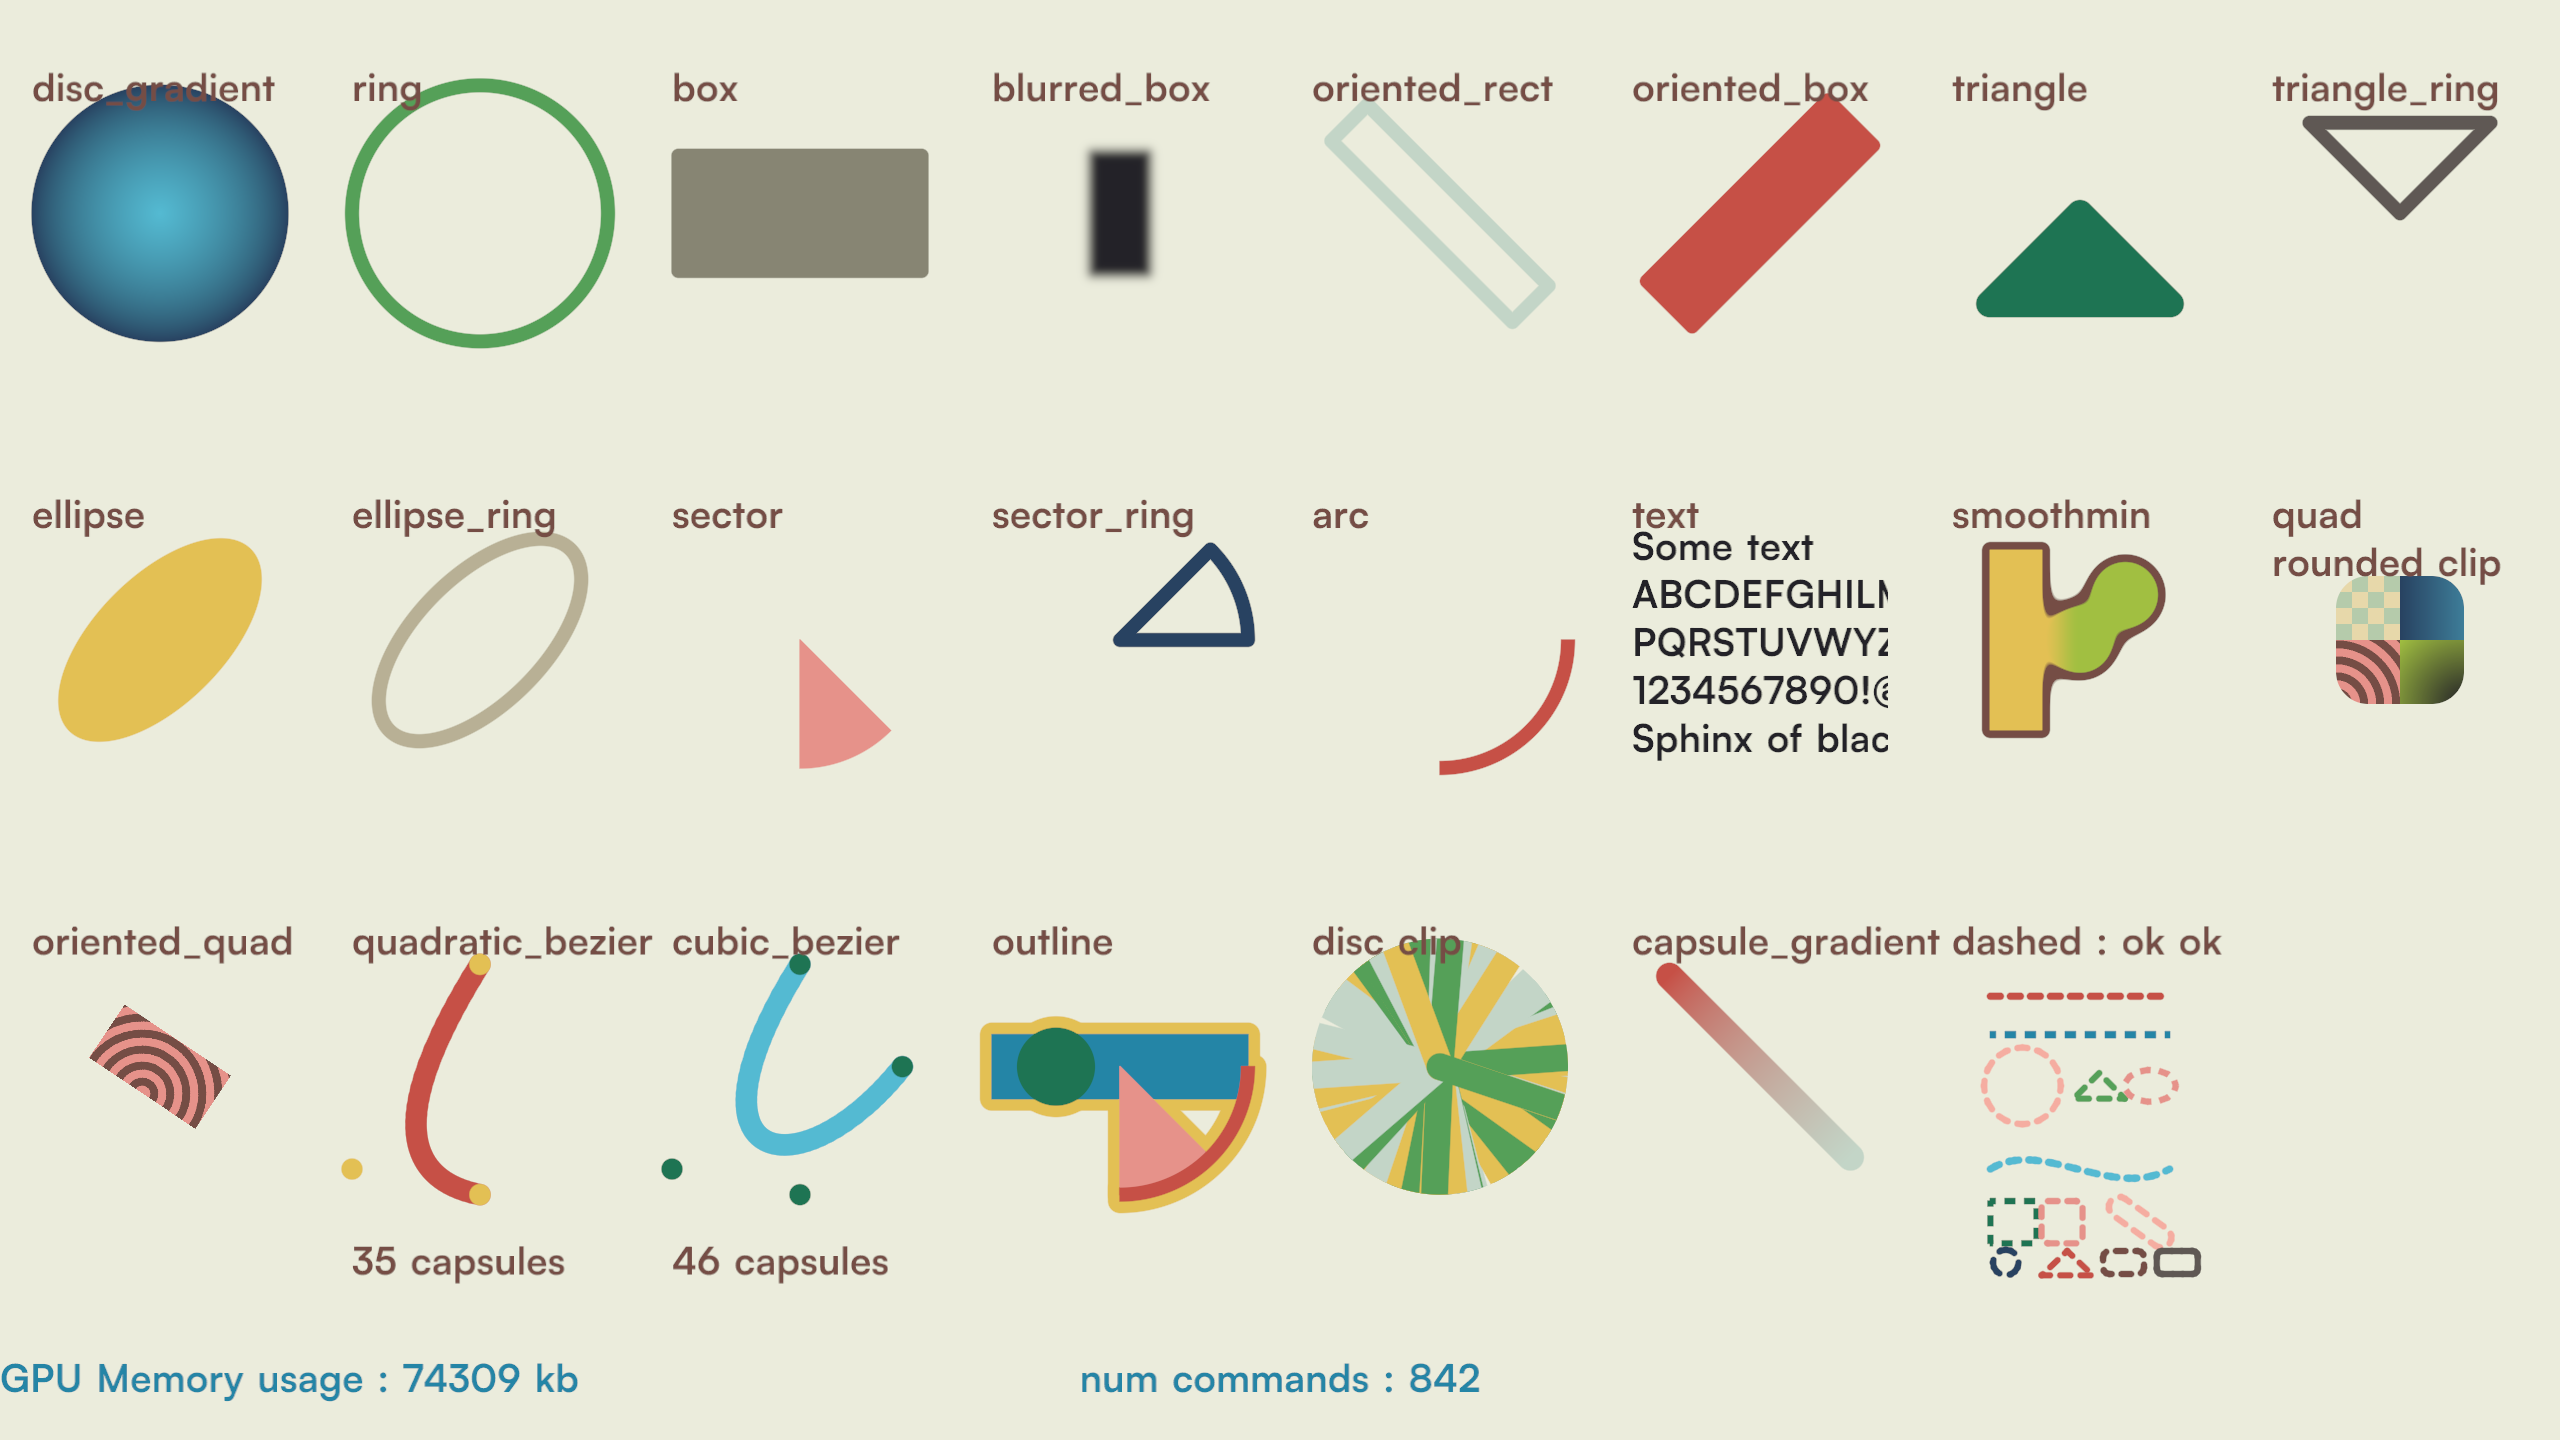
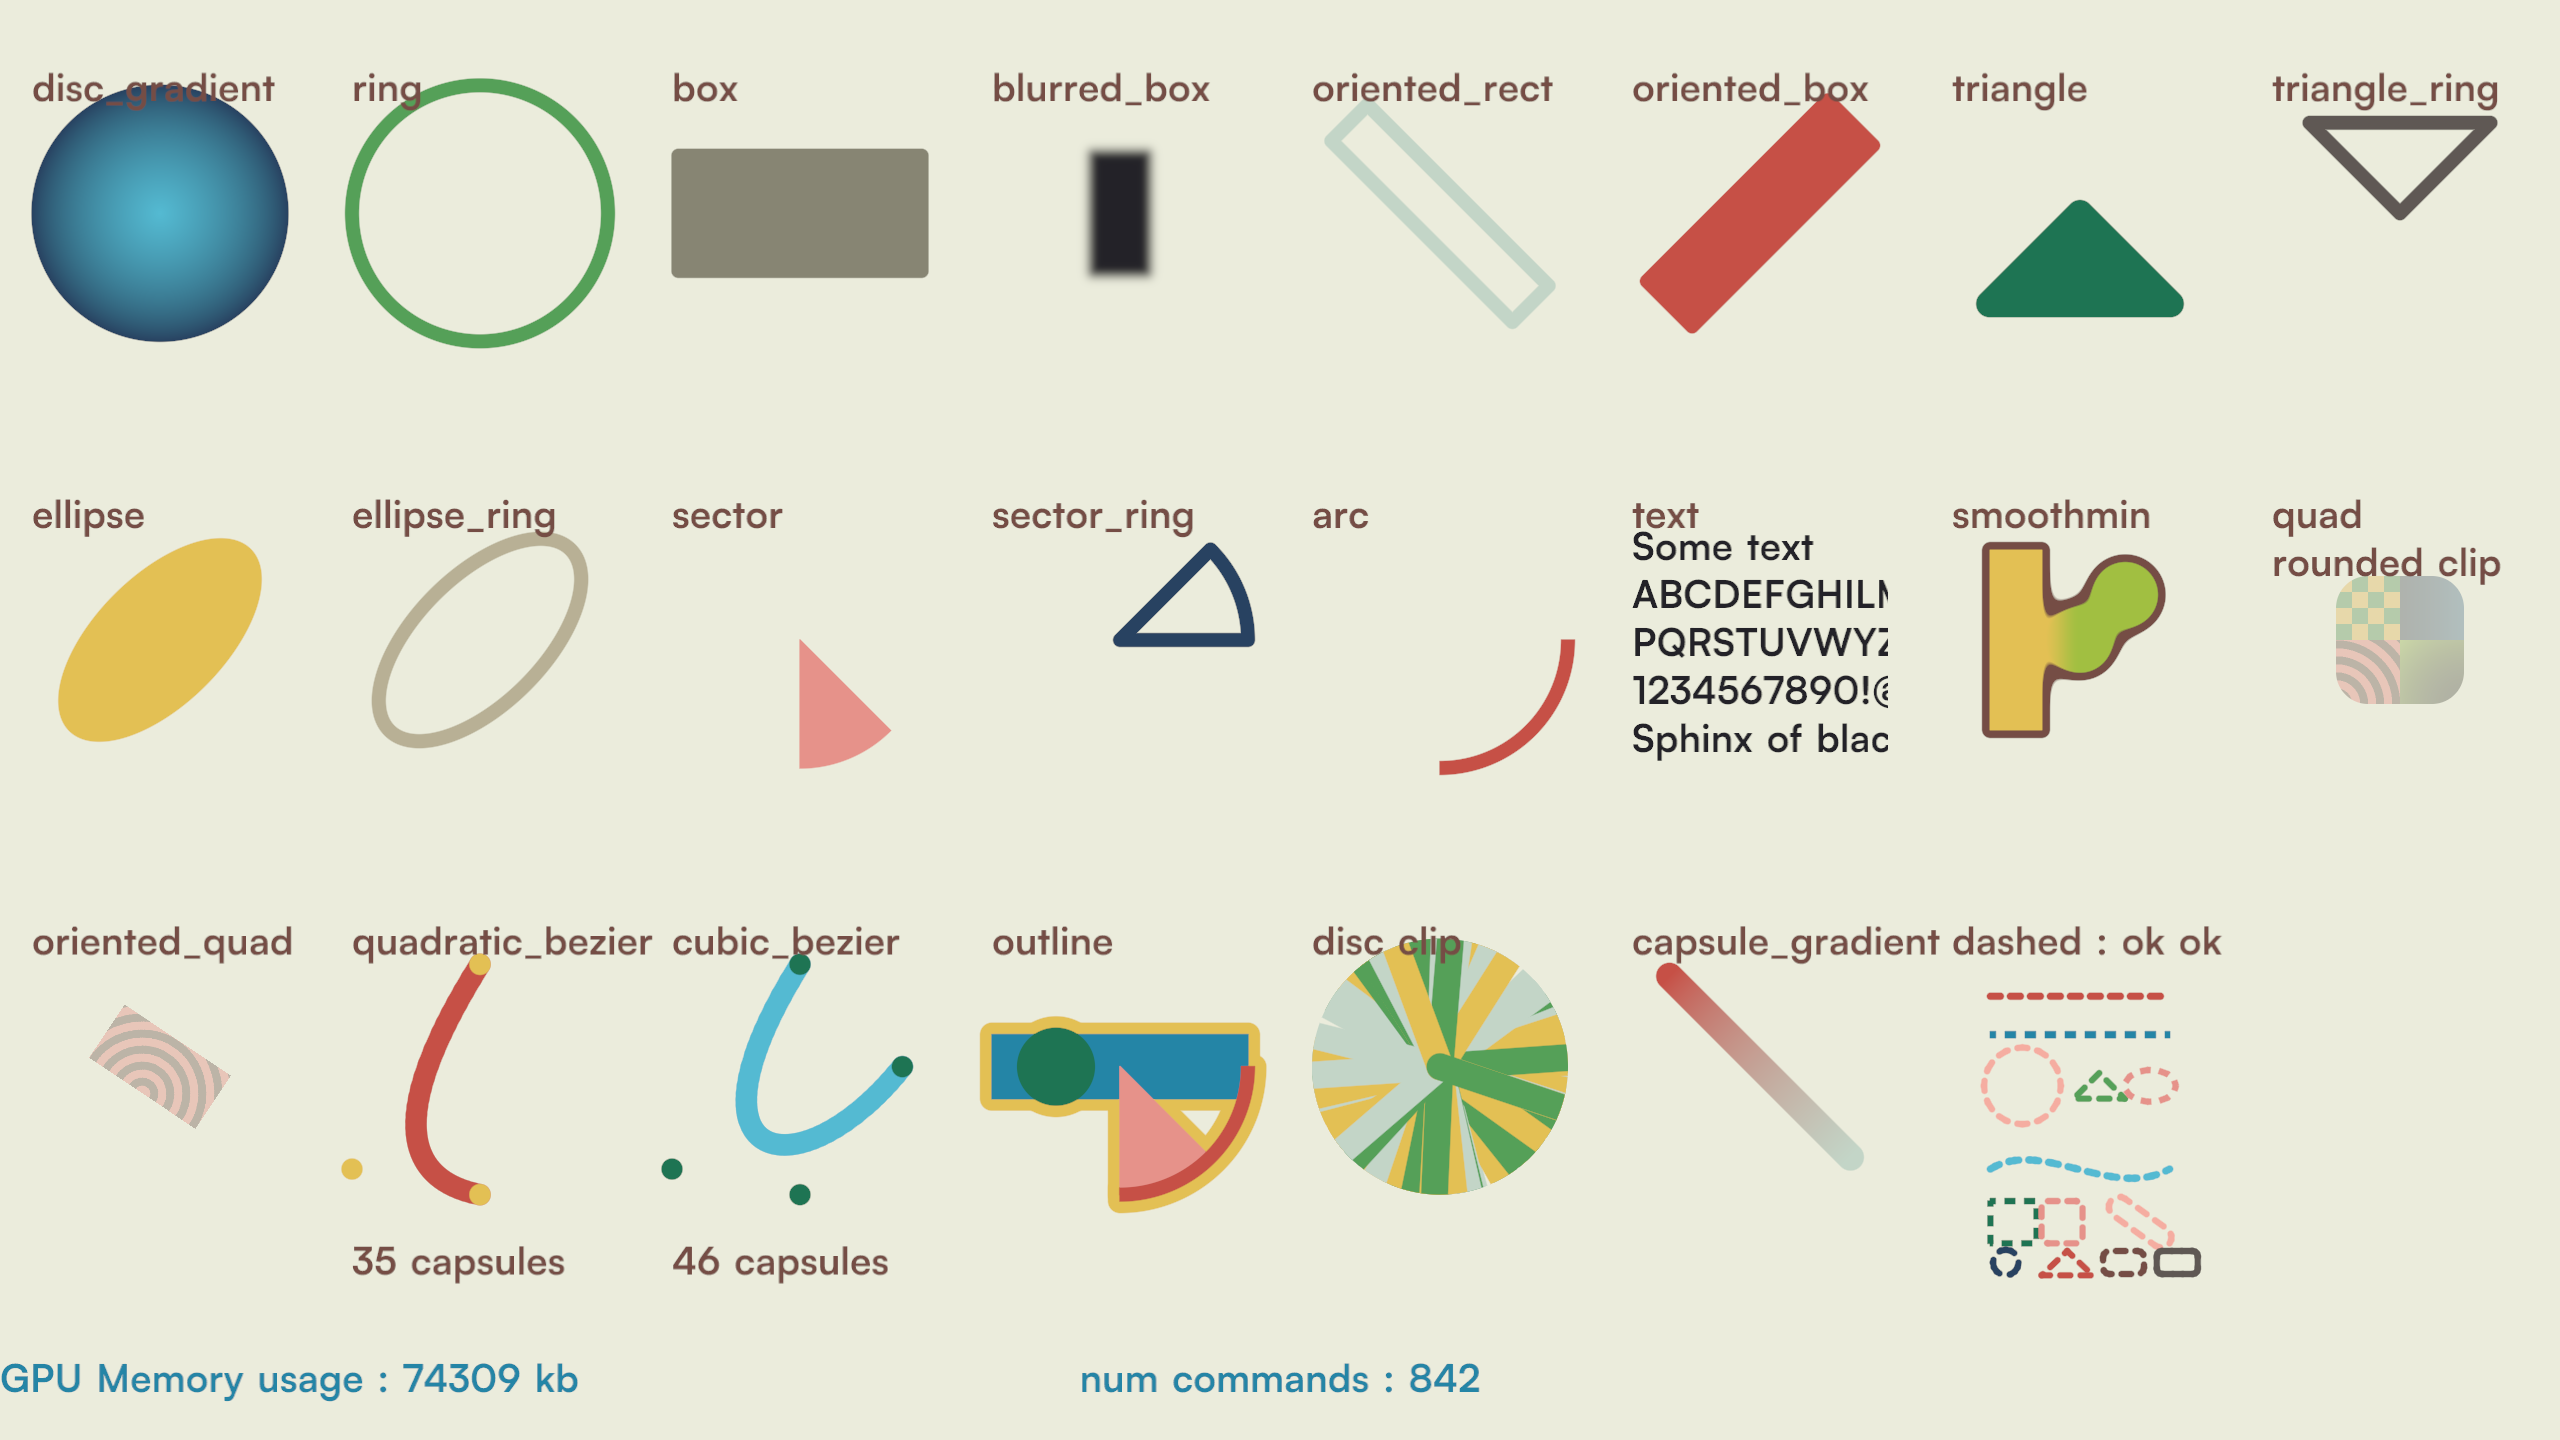
fixed alpha for the quad tests

Changed region(s): [[0.9062, 0.375, 0.9688, 0.5], [0.0312, 0.6875, 0.0938, 0.7812]]

diff --git a/tests/test.c b/tests/test.c
@@ -402,14 +402,14 @@ void frame(void)
     slot(15, &cx, &cy, &radius);
     od_set_cliprect_rounded(renderer, cx - radius*.5f, cy - radius*.5f, cx + radius*.5f, cy + radius*.5f, radius*.25f);
     od_draw_quad(renderer, cx-radius, cy-radius, cx, cy, (od_quad_uv){0.f, 0.f, 1.f, 1.f}, 0, 0x7fffffff);
-    od_draw_quad(renderer, cx, cy-radius, cx+radius, cy, (od_quad_uv){0.f, 0.f, 1.f, 1.f}, 1, 0xffffffff);
-    od_draw_quad(renderer, cx-radius, cy, cx, cy+radius, (od_quad_uv){0.f, 0.f, 1.f, 1.f}, 2, 0xffffffff);
-    od_draw_quad(renderer, cx, cy, cx+radius, cy+radius, (od_quad_uv){0.f, 0.f, 1.f, 1.f}, 3, 0xffffffff);
+    od_draw_quad(renderer, cx, cy-radius, cx+radius, cy, (od_quad_uv){0.f, 0.f, 1.f, 1.f}, 1, 0x7fffffff);
+    od_draw_quad(renderer, cx-radius, cy, cx, cy+radius, (od_quad_uv){0.f, 0.f, 1.f, 1.f}, 2, 0x7fffffff);
+    od_draw_quad(renderer, cx, cy, cx+radius, cy+radius, (od_quad_uv){0.f, 0.f, 1.f, 1.f}, 3, 0x7fffffff);
     od_set_cliprect(renderer, 0.f, 0.f, UINT16_MAX, UINT16_MAX);
     od_draw_text(renderer, cx-radius, cy-radius*1.25f, "quad\nrounded clip", miya_brown);
 
     slot(16, &cx, &cy, &radius);
-    od_draw_oriented_quad(renderer, cx, cy, radius, radius*.5f, angle * 0.75f, (od_quad_uv){0.f, 0.f, 1.f, 0.5f}, 2, 0xffffffff);
+    od_draw_oriented_quad(renderer, cx, cy, radius, radius*.5f, angle * 0.75f, (od_quad_uv){0.f, 0.f, 1.f, 0.5f}, 2, 0x7fffffff);
     od_draw_text(renderer, cx-radius, cy-radius*1.25f, "oriented_quad", miya_brown);
 
     slot(17, &cx, &cy, &radius);
